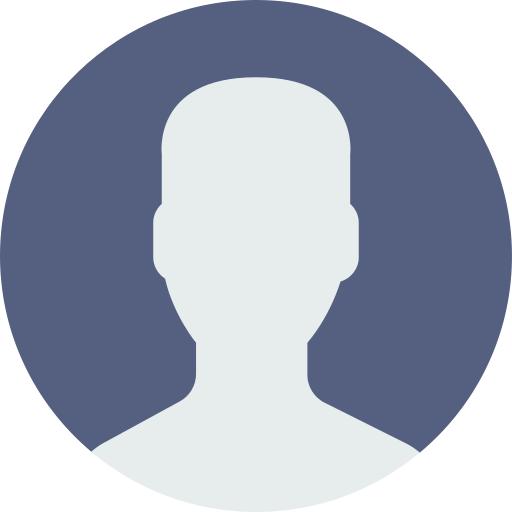
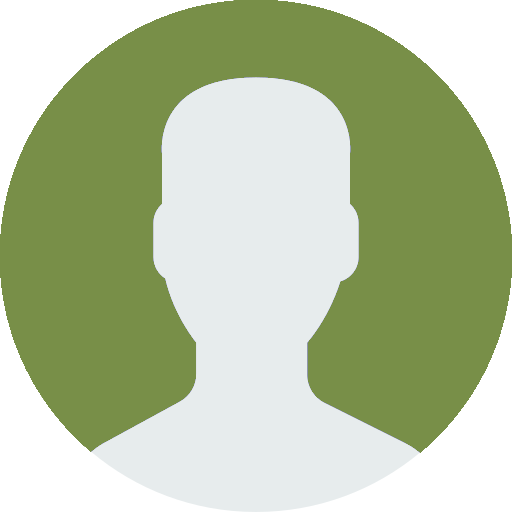
home

diff --git a/app/assets/stylesheets/components/_footer.scss b/app/assets/stylesheets/components/_footer.scss
@@ -3,36 +3,55 @@
 }
 
 .footer {
-  // position: fixed;
-  // bottom: 0;
   width: 100%;
-  background-color: $white;
-  display: flex;
-  justify-content: space-around;
-  align-items: center;
+  background-color: $color1;
+  color: white;
   padding-top: 1em;
-  height: 4em;
+}
+
+.footer-content {
+  display: flex;
+  justify-content: space-evenly;
+}
+
+.footer-content-element {
+  // flex: 1;
+  // display: flex;
+  // align-items: center;
+  // justify-content: center;
+  margin-right: 1em;
+  margin-left: 1em;
+}
+
+.footer-content-element-header {
+  font-size: 1.2em;
+}
+
+.footer-footer {
+  display: flex;
+  justify-content: space-between;
+  align-items: center;
 }
 
 .footer ul {
   padding: 0px;
 }
 
-.list-inline {
+.social {
   li {
     display: inline-block;
     padding: 0px 20px;
   }
 }
 
-.list-inline i {
+.social i {
   font-size: 24px;
-  color: $font;
+  color: $white;
 }
 
 .footer a {
   text-decoration: none;
-  color: $font;
+  color: $white;
 }
 
 span {

diff --git a/app/assets/stylesheets/pages/_home.scss b/app/assets/stylesheets/pages/_home.scss
@@ -27,30 +27,4 @@ body {
     font-size: 24px;
     color: white;
   }
-
-  .infos {
-    display: flex;
-    margin-top: 2em;
-
-    .address-home {
-      color: $white;
-      width: 30%;
-      background-color: $color2;
-      padding-left: 1em;
-      padding-top: 1em;
-    }
-
-    .time {
-      color: $font;
-      width: 70%;
-      background-color: $color3;
-      padding-left: 1em;
-      padding-top: 1em;
-    }
-
-    .link {
-      text-decoration: none;
-      color: $white;
-    }
-  }
 }

diff --git a/app/assets/stylesheets/components/_shared.scss b/app/assets/stylesheets/components/_shared.scss
@@ -1,5 +1,5 @@
 .page-content {
-  padding-top: 1em;
+  padding-top: 4em;
   min-height: calc(100vh - 4em);
 }
 

diff --git a/config/routes.rb b/config/routes.rb
@@ -11,6 +11,9 @@ Rails.application.routes.draw do
   get '/zone_de_livraison', to: 'polygons#new'
   get '/commandes', to: 'orders#index'
   get '/catalogue', to: 'categories#index'
+  get '/contact', to: 'contacts#new'
+  get '/conditions_generales_de_vente', to: 'pages#cgv'
+  get '/mentions_legales', to: 'pages#mentions_legales'
   # Define your application routes per the DSL in https://guides.rubyonrails.org/routing.html
 
   resources :categories

diff --git a/app/controllers/pages_controller.rb b/app/controllers/pages_controller.rb
@@ -1,5 +1,5 @@
 class PagesController < ApplicationController
-  skip_before_action :authenticate_user!, only: [ :home, :delivery ]
+  skip_before_action :authenticate_user!, only: [ :home, :delivery, :cgv, :mentions_legales ]
 
   def home
   end
@@ -20,5 +20,11 @@ class PagesController < ApplicationController
 
   def my_orders
     @orders = current_user.orders
+  end
+
+  def cgv
+  end
+
+  def mentions_legales
   end
 end
